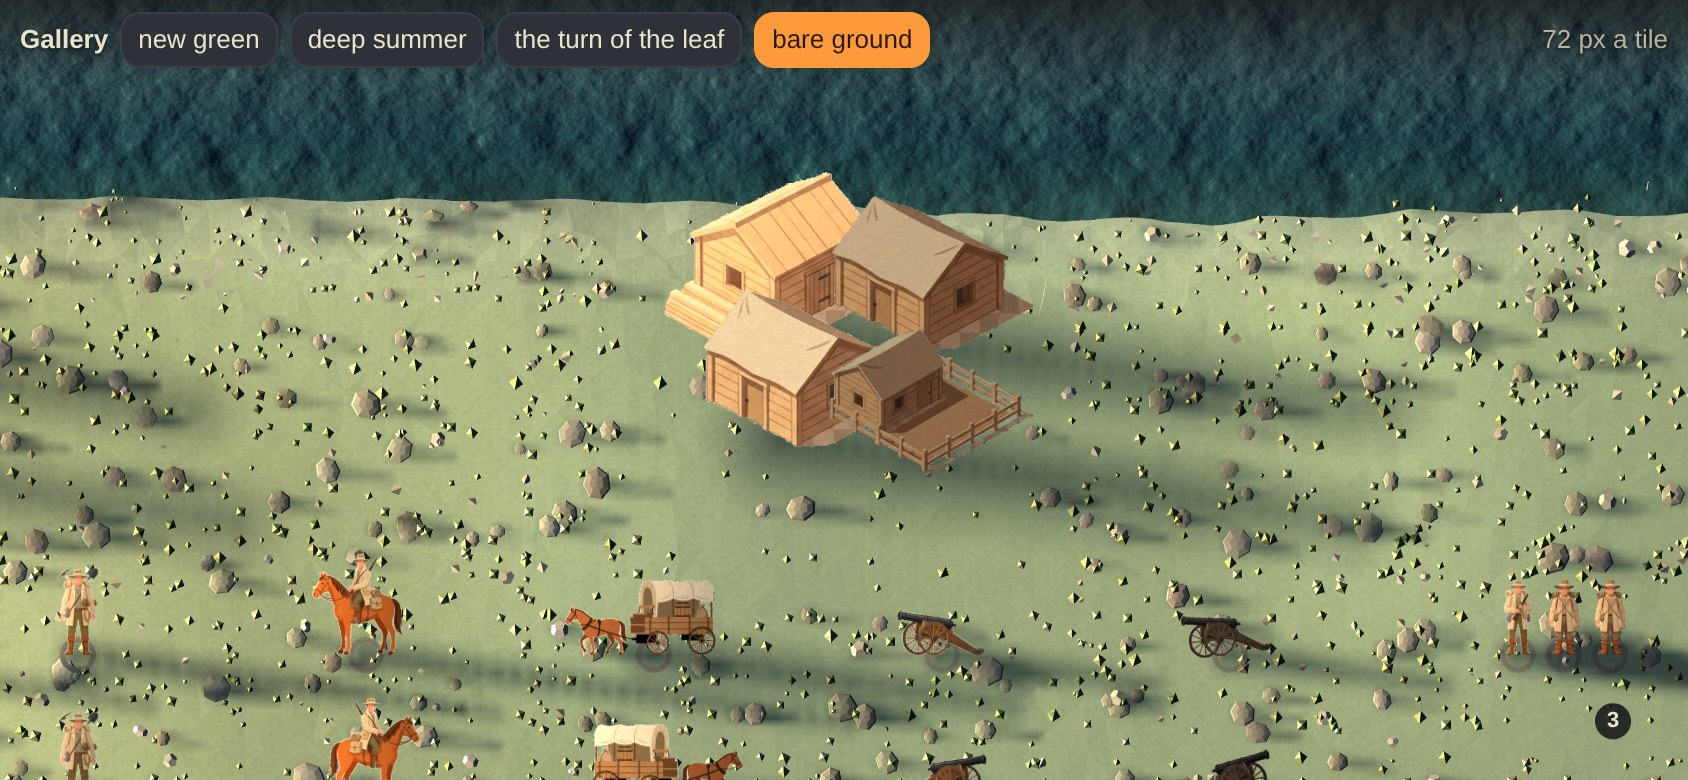
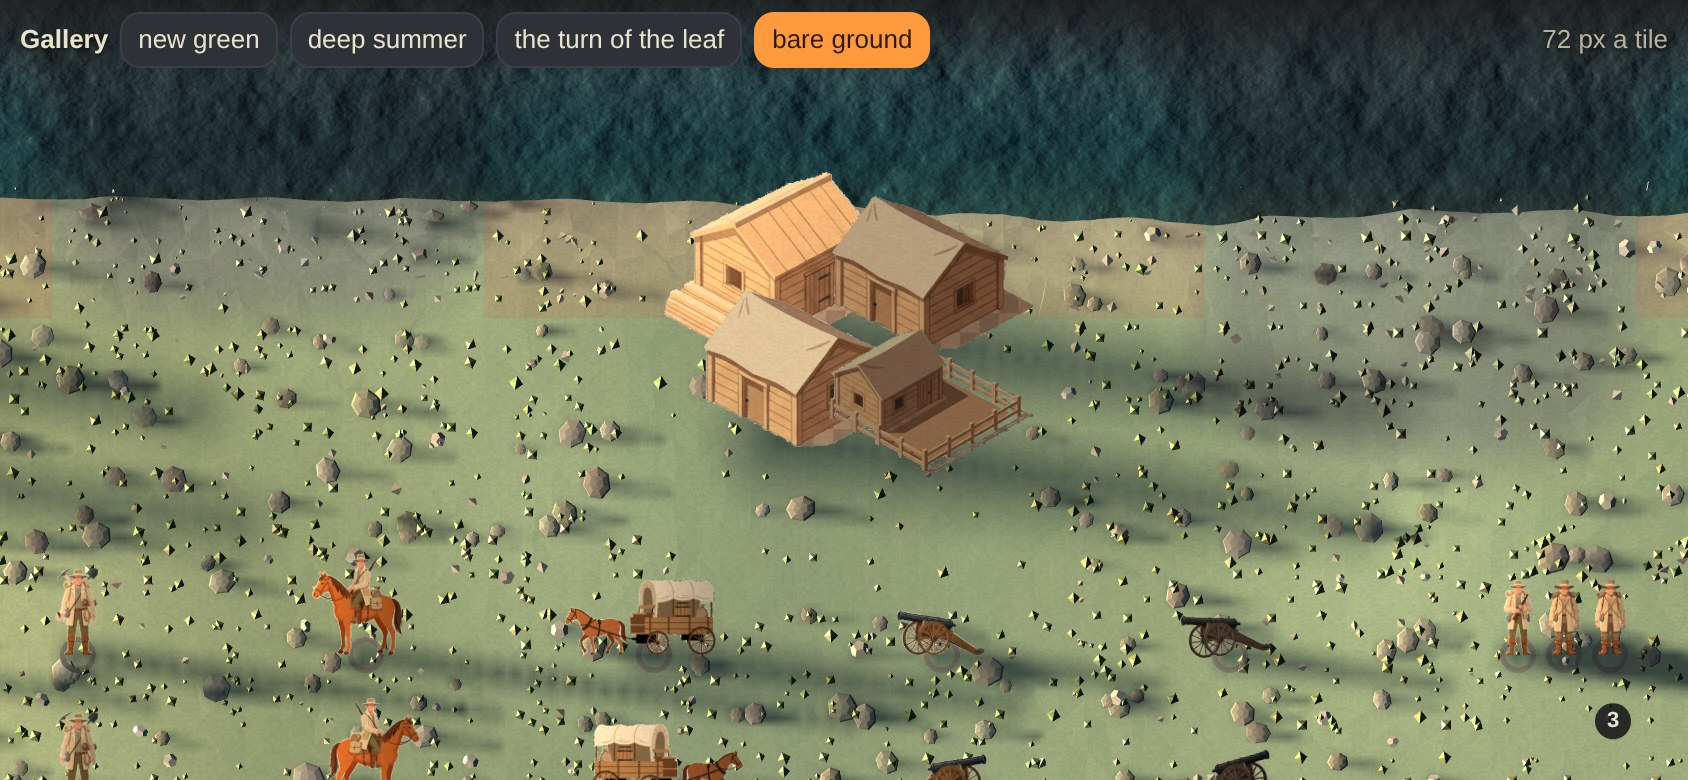
The gallery's lander lies in fog, and the gallery pictures are retaken
The stage at /?gallery puts the player's lander at sea to the right of the hulls with the water
there unexplored but for what the lander itself can see, so the fog, the frontier and the haze
can be judged beside the drawings under the same light. The wave of the recall fleet motoring in
stands on the known water next to it. The twenty committed gallery pictures are retaken with the
fog in them. The telemetry counters the prompt asks for, the turn the first settlement was
founded and the turns at sea before it, were recorded in the simulation phase and read in the
menu's summary.

Claude-Session: https://claude.ai/code/session_01BnaKxg5sYv2MtJa999phiz

diff --git a/src/ui/gallery.ts b/src/ui/gallery.ts
@@ -7,7 +7,8 @@
 // season palettes, the same billboard layer. What it stands on them is a stage rather than a game:
 // a flat coast built by hand, with every kind of unit in every owner's colour in a row beside a
 // colonist for scale, three settlements of two, six and twelve people behind them, every hull on
-// the water, the lander offshore with its plume, and a wood at one side to compare shadows against.
+// the water, the lander offshore in fog, steaming in the first season, a wave of the recall fleet motoring in, and a
+// wood at one side to compare shadows against.
 //
 // It never touches the player's save and nothing in the game links to it. It is reached by typing
 // the address, and that is the whole of its interface, apart from a season to pick and the pinch
@@ -42,10 +43,20 @@ const STAGE = {
   settlements: [2, 6, 12],
   /** Which turn stands for each season: the first month of each. */
   seasonTurns: [1, 4, 7, 10],
+  /** Where the player's lander lies at sea, and from which column the water is unexplored, so the
+   *  lander sits in fog with its own sight known around it, as the opening finds it. */
+  lander: [22, 4] as [number, number],
+  fogFrom: 19,
 }
 
 function stageTile(x: number, z: number): Tile {
-  if (z < STAGE.shore) { const t = blankTile('water'); t.explored = true; return t }
+  if (z < STAGE.shore) {
+    const t = blankTile('water')
+    // the water to the right of the hulls is unexplored but for what the lander can see
+    const inSight = Math.max(Math.abs(x - STAGE.lander[0]), Math.abs(z - STAGE.lander[1])) <= C.lander.sight
+    t.explored = x < STAGE.fogFrom || inSight
+    return t
+  }
   // grassland, ploughed: the renderer rolls a landform under every map that can carry low ground
   // under the waterline, and a stage wants its floor above it everywhere. Ploughed ground is
   // flattened to less than half the roll, which with this seed keeps the whole stage dry
@@ -116,7 +127,7 @@ export function stageState(turn: number): GameState {
   for (const st of settlements) tiles[st.tile].worked = st.id
   // the player's lander at sea in fog, off to the right of the hulls, as the opening finds it; and
   // a wave of the recall fleet motoring in toward the coast beside the middle settlement
-  const splash = at(22, 4)
+  const splash = at(STAGE.lander[0], STAGE.lander[1])
   const lander = stageUnit(id++, 0, 'lander', splash)
   lander.aboard = [{ id: 9000, standing: 'contracted', speciality: null, job: { kind: 'idle' }, arrived: 1 }]
   units.push(lander)
